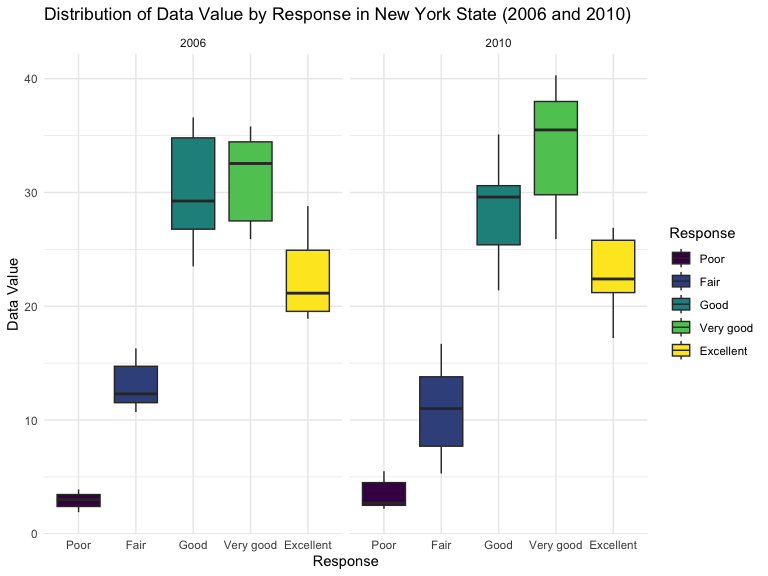
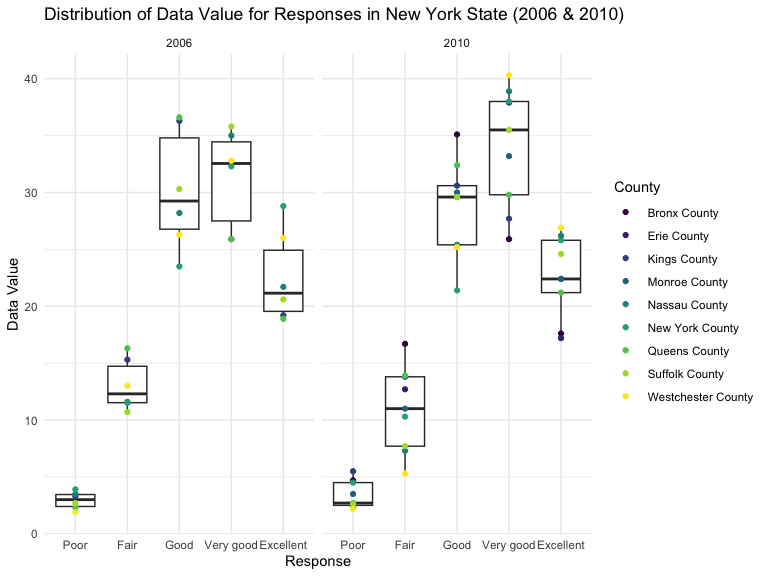
edits for problem 2

diff --git a/p8105_hw3_hj2660.md b/p8105_hw3_hj2660.md
@@ -115,15 +115,13 @@ topic. Include only responses that are ordered from `Poor` to
 ``` r
 brfss_df = brfss_smart2010 |>
   janitor::clean_names() |>
-  filter(topic == "Overall Health" &
-         response %in% c("Excellent", "Very good", "Good", "Fair", "Poor"))
-
-ordered_brfss = brfss_df[order(factor(brfss_df$response, levels = c("Poor", "Fair", "Good", "Very good", "Excellent"))),]
+  filter(topic == "Overall Health") |>
+  mutate(response = factor(response, levels = c("Poor", "Fair", "Good", "Very good", "Excellent")))
 ```
 
 ``` r
 states_2002 =
-  ordered_brfss |>
+  brfss_df |>
   filter(year == "2002") |> 
   group_by(locationabbr) |>
   summarize(locations = n_distinct(locationdesc)) |>
@@ -134,7 +132,7 @@ In 2002, there are 6 states observed at 7 or more locations.
 
 ``` r
 states_2010 =
-  ordered_brfss |>
+  brfss_df |>
   filter(year == "2010") |> 
   group_by(locationabbr) |>
   summarize(locations = n_distinct(locationdesc)) |>
@@ -148,7 +146,7 @@ Construct a dataset that only has “Excellent” responses and contains
 
 ``` r
 excl_brfss =
-  ordered_brfss |>
+  brfss_df |>
   filter(response == "Excellent") |>
   group_by(year, locationabbr) |>
   mutate(avg_data = mean(data_value)) |>
@@ -174,25 +172,18 @@ distribution of data_value for responses (“Poor” to “Excellent”) among
 locations in NY State
 
 ``` r
-ny_df =
-  ordered_brfss |>
-  filter(locationabbr == "NY", year %in% c(2006, 2010))
-
-#order of levels for the "response" variable
-response_levels = c("Poor", "Fair", "Good", "Very good", "Excellent")
-ny_df$response = factor(ny_df$response, levels = response_levels)
-
-#Create a two-panel plot
-ggplot(ny_df, aes(x = response, y = data_value, fill = response)) +
+brfss_df |>
+  filter(locationabbr == "NY", year %in% c(2006, 2010)) |>
+  separate(locationdesc, into = c("state", "county"), "-") |>
+  select(year, county, response, data_value) |>
+  ggplot(aes(x = response, y = data_value)) +
   geom_boxplot() +
-  facet_wrap(~year, nrow = 1) +
-  scale_fill_viridis_d() +
-  labs(
-    title = "Distribution of Data Value by Response in New York State (2006 and 2010)",
-    x = "Response",
-    y = "Data Value",
-    fill = "Response"
-  ) +
+  geom_point(aes(color = county)) +
+  facet_grid(~ year) +
+  labs(title = "Distribution of Data Value for Responses in New York State (2006 & 2010)",
+       x = "Response",
+       y = "Data Value",
+       color = "County") +
   theme_minimal()
 ```
 
@@ -266,8 +257,46 @@ activities (y-axis) against age (x-axis); your plot should compare men
 to women and have separate panels for each education level. Include a
 trend line or a smooth to illustrate differences. Comment on your plot.
 
+``` r
+plot2_nhanes = merged_nhanes |>
+  rowwise() |>
+  mutate(total_activity = sum(c_across(starts_with("min")))) |>
+  group_by(education, sex, age) |>
+  summarize(total_activity = sum(total_activity))
+```
+
+    ## `summarise()` has grouped output by 'education', 'sex'. You can override using
+    ## the `.groups` argument.
+
+``` r
+ggplot(plot2_nhanes, aes(x = age, y = total_activity, color = sex)) +
+  geom_point(alpha = 0.5) +
+  facet_wrap(~education) +
+  geom_smooth() +
+  labs(title = "Total Activity by Age, Gender, Education",
+       y = "Total Activity",
+       x = "Age")
+```
+
+    ## `geom_smooth()` using method = 'loess' and formula = 'y ~ x'
+
+<img src="p8105_hw3_hj2660_files/figure-gfm/unnamed-chunk-15-1.png" width="90%" />
+
 Accelerometer data allows the inspection activity over the course of the
 day. Make a three-panel plot that shows the 24-hour activity time
 courses for each education level and use color to indicate sex. Describe
 in words any patterns or conclusions you can make based on this graph;
 including smooth trends may help identify differences.
+
+``` r
+plot3_nhanes = merged_nhanes |>
+  
+  
+ggplot(, aes(x = , y = , color = sex)) +
+  geom_point(alpha = 0.5) +
+  facet_wrap(~education) +
+  geom_smooth() +
+  labs(title = "24-hour Activity by Age and Education",
+       y = "Mean Value of Activity",
+       x = "Time(min)")
+```
